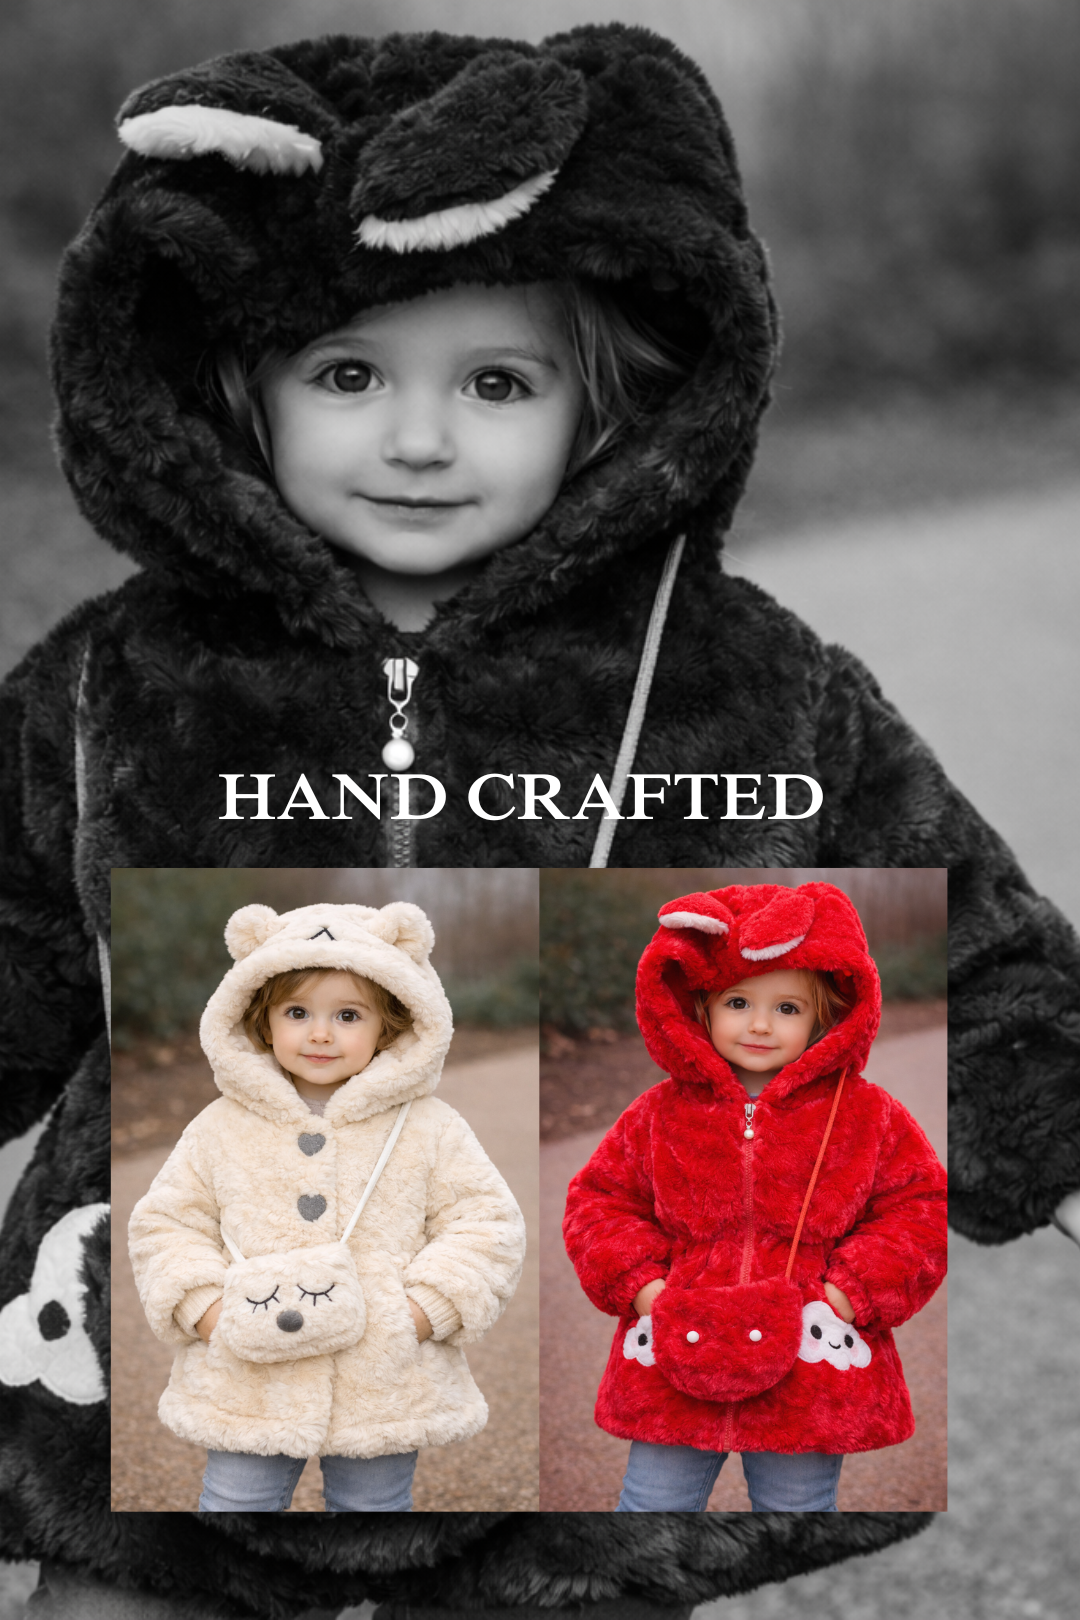
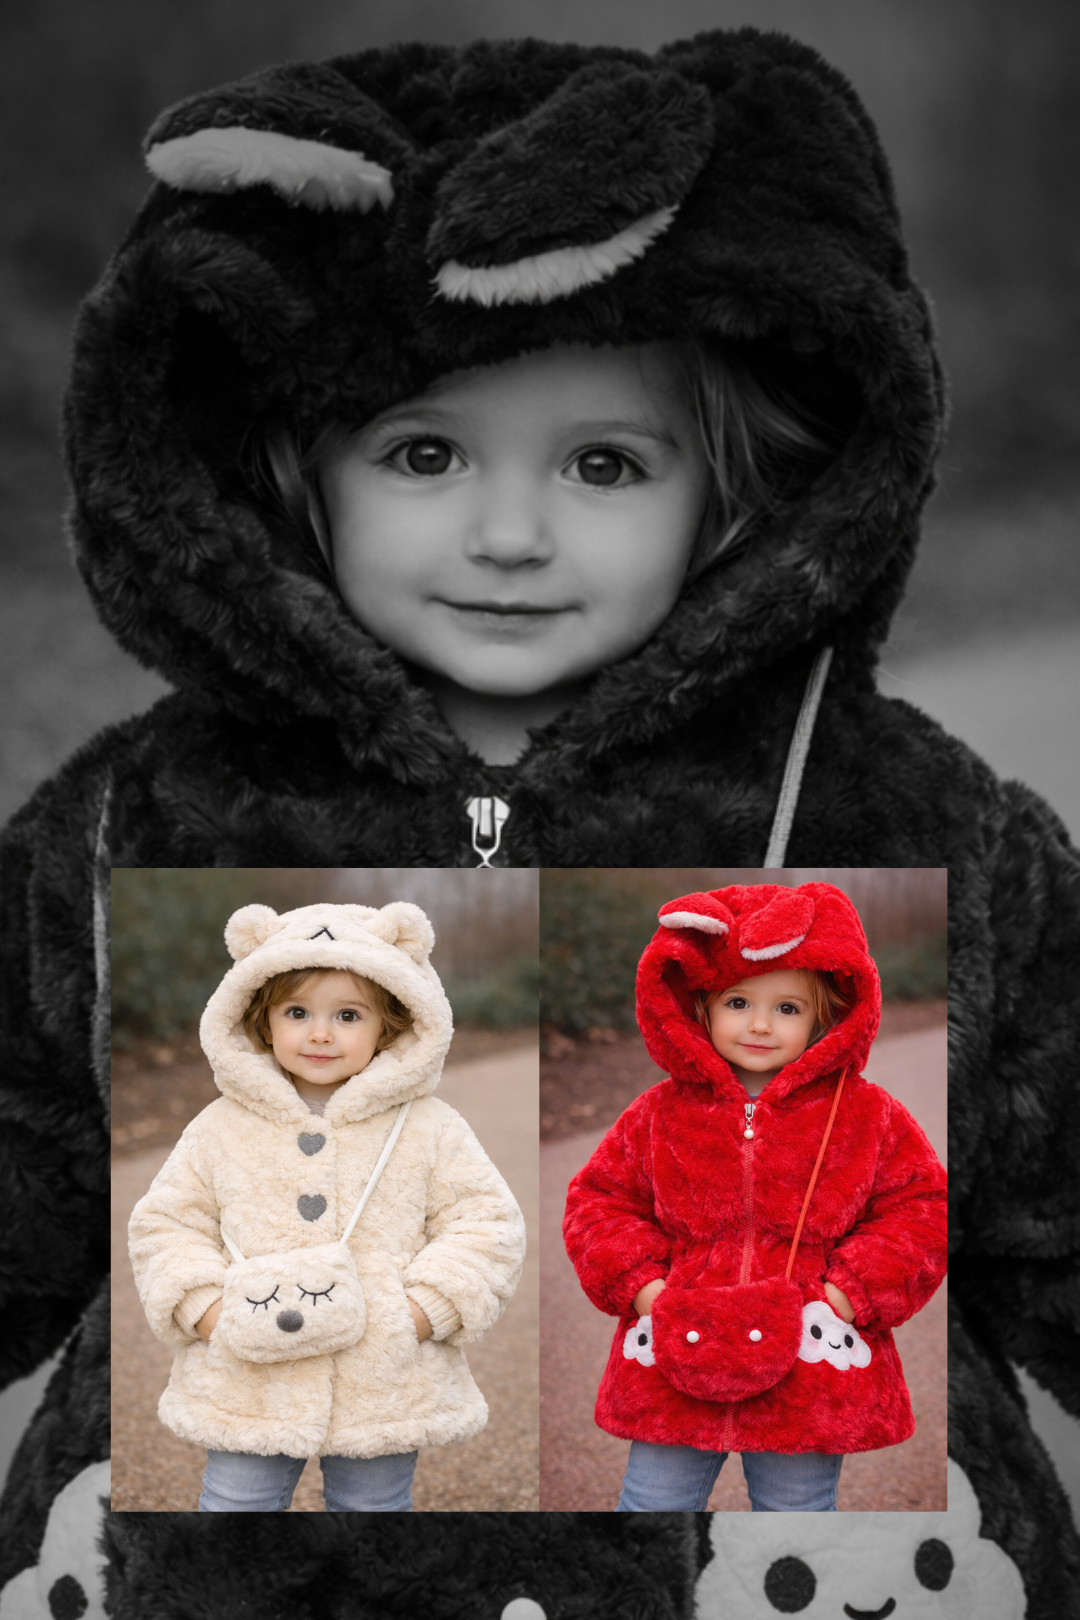
ss

diff --git a/src/components/HeroSlider.js b/src/components/HeroSlider.js
@@ -93,6 +93,12 @@ export default function HeroSlider({ images, intervalMs = 3800 }) {
   const kicker = active?.kicker || "";
   const headline = active?.headline || "";
   const hasText = Boolean(kicker || headline);
+  const textStyle = hasText
+    ? {
+        "--heroTextTop": active?.textTop,
+        "--heroTextTopMobile": active?.textTopMobile,
+      }
+    : undefined;
 
   return (
     <div className="hero-slider" aria-label="Featured images">
@@ -148,6 +154,7 @@ export default function HeroSlider({ images, intervalMs = 3800 }) {
         <div
           className={textOut ? "hero-text hero-text-out" : "hero-text"}
           key={`text-${index}-${animNonce}`}
+          style={textStyle}
           aria-hidden="true"
         >
           {kicker ? <div className="hero-text-kicker">{kicker}</div> : null}

diff --git a/src/index.css b/src/index.css
@@ -650,7 +650,7 @@ p {
 .hero-text {
   position: absolute;
   left: 50%;
-  top: clamp(120px, 18vh, 210px);
+  top: var(--heroTextTop, clamp(120px, 18vh, 210px));
   transform: translateX(-50%);
   z-index: 2;
   width: min(980px, calc(100% - 40px));
@@ -818,7 +818,10 @@ p {
   }
 
   .hero-text {
-    top: clamp(110px, 17vh, 170px);
+    top: var(
+      --heroTextTopMobile,
+      var(--heroTextTop, clamp(110px, 17vh, 170px))
+    );
     width: min(980px, calc(100% - 28px));
   }
 

diff --git a/src/pages/ShopPage.js b/src/pages/ShopPage.js
@@ -33,6 +33,9 @@ export default function ShopPage() {
         alt: "Seasonal picks",
         kicker: "KIDS WINTER COLLECTION IS LIVE",
         headline: "CHECK OUT NOW",
+        // Slide 3 has a longer top line; keep it a bit lower to avoid overlapping the header.
+        textTop: "22vh",
+        textTopMobile: "160px",
       },
     ],
     []
